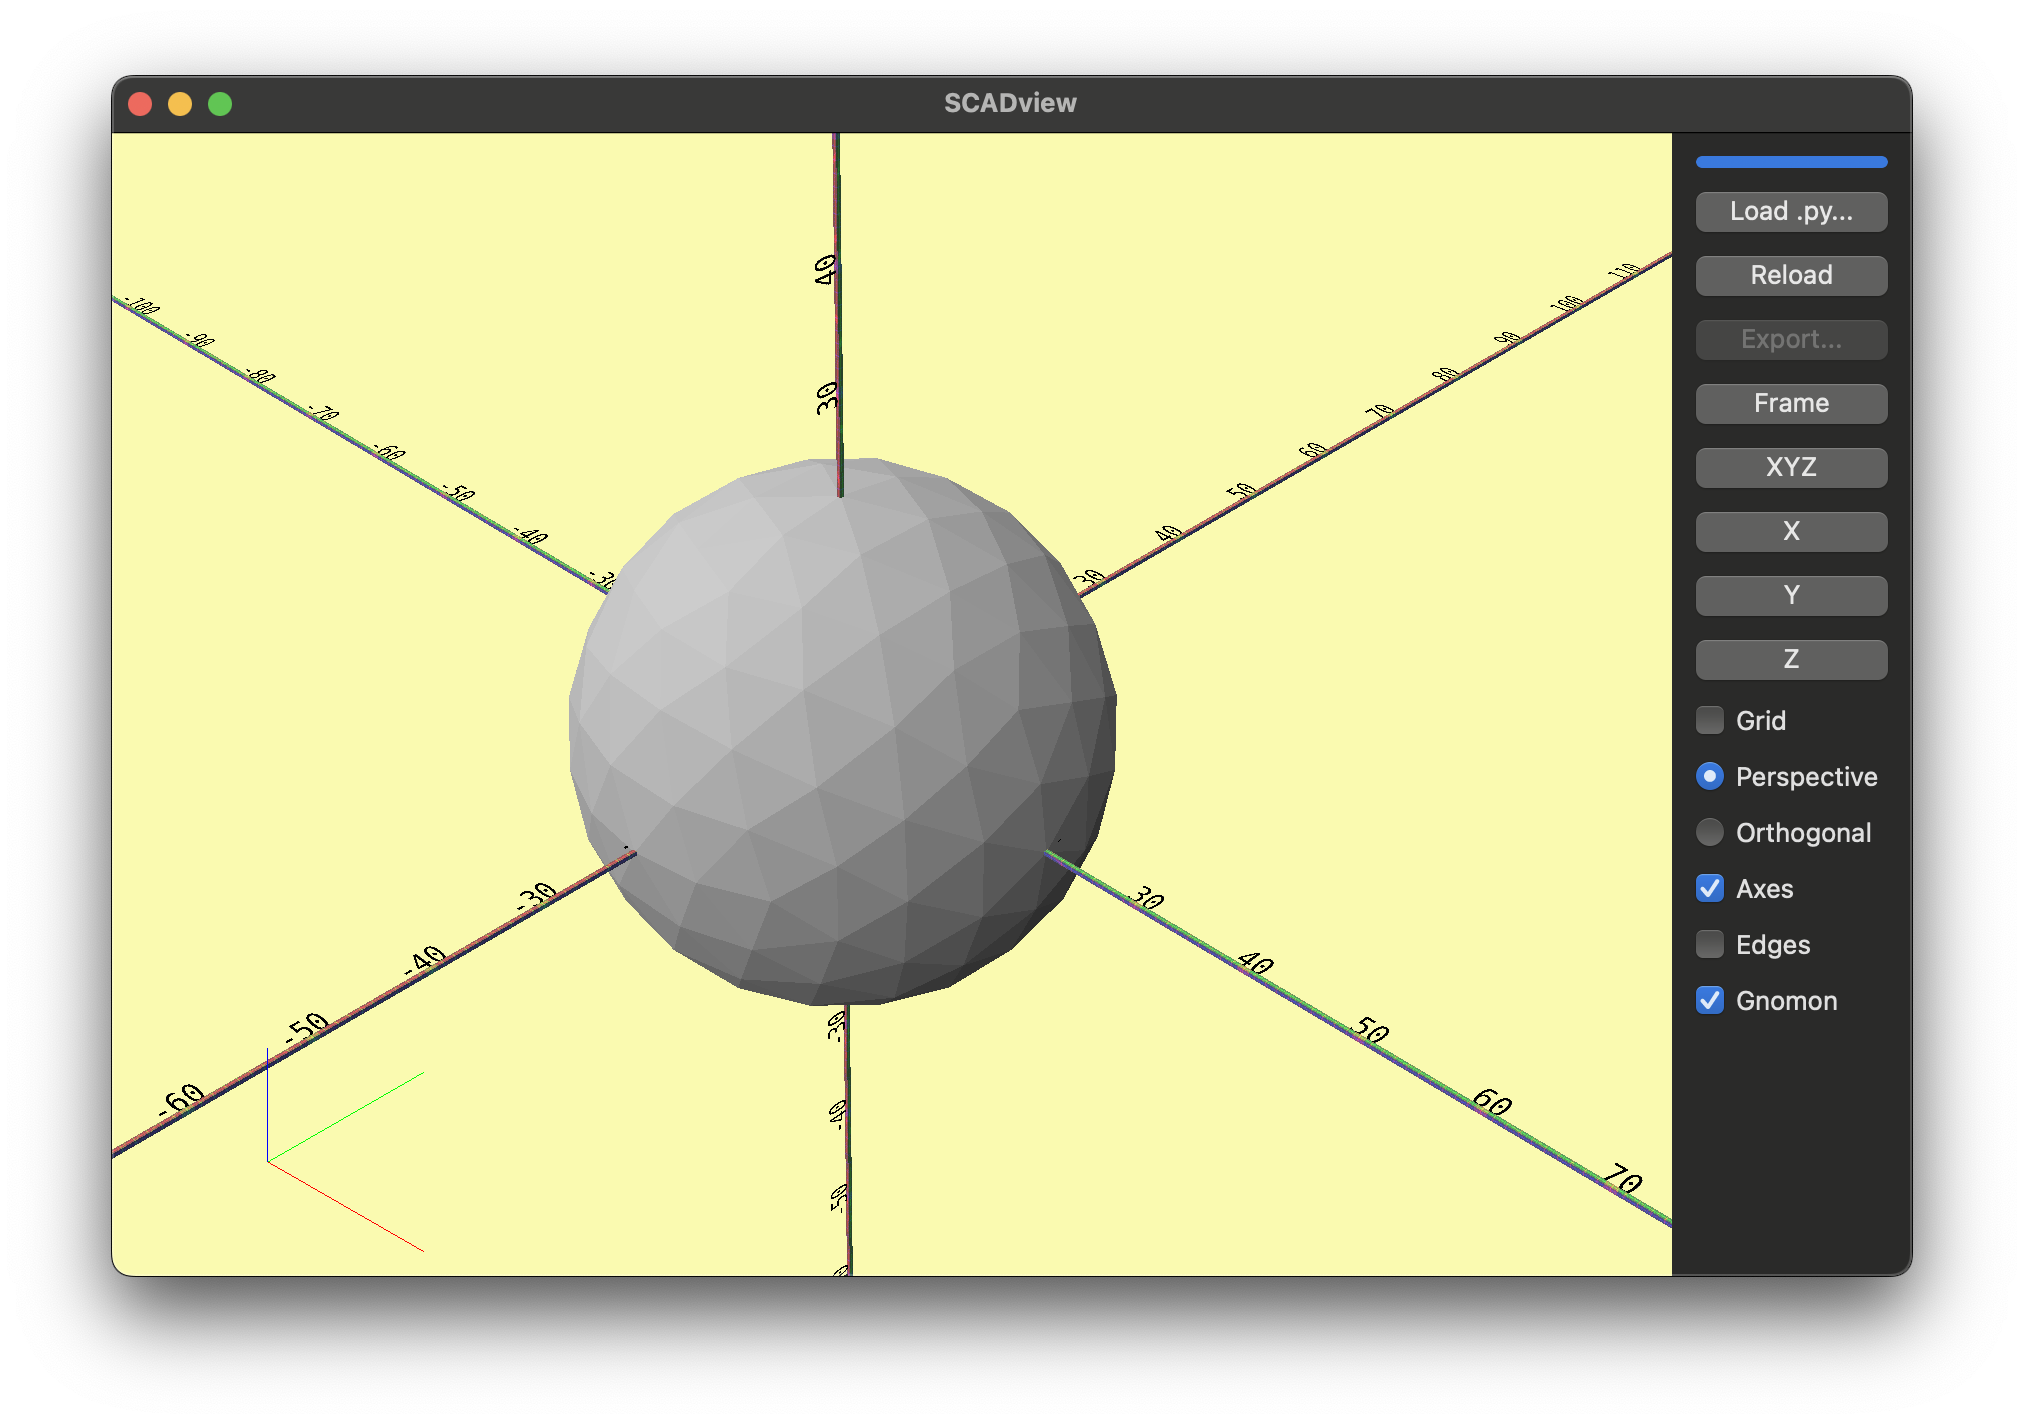
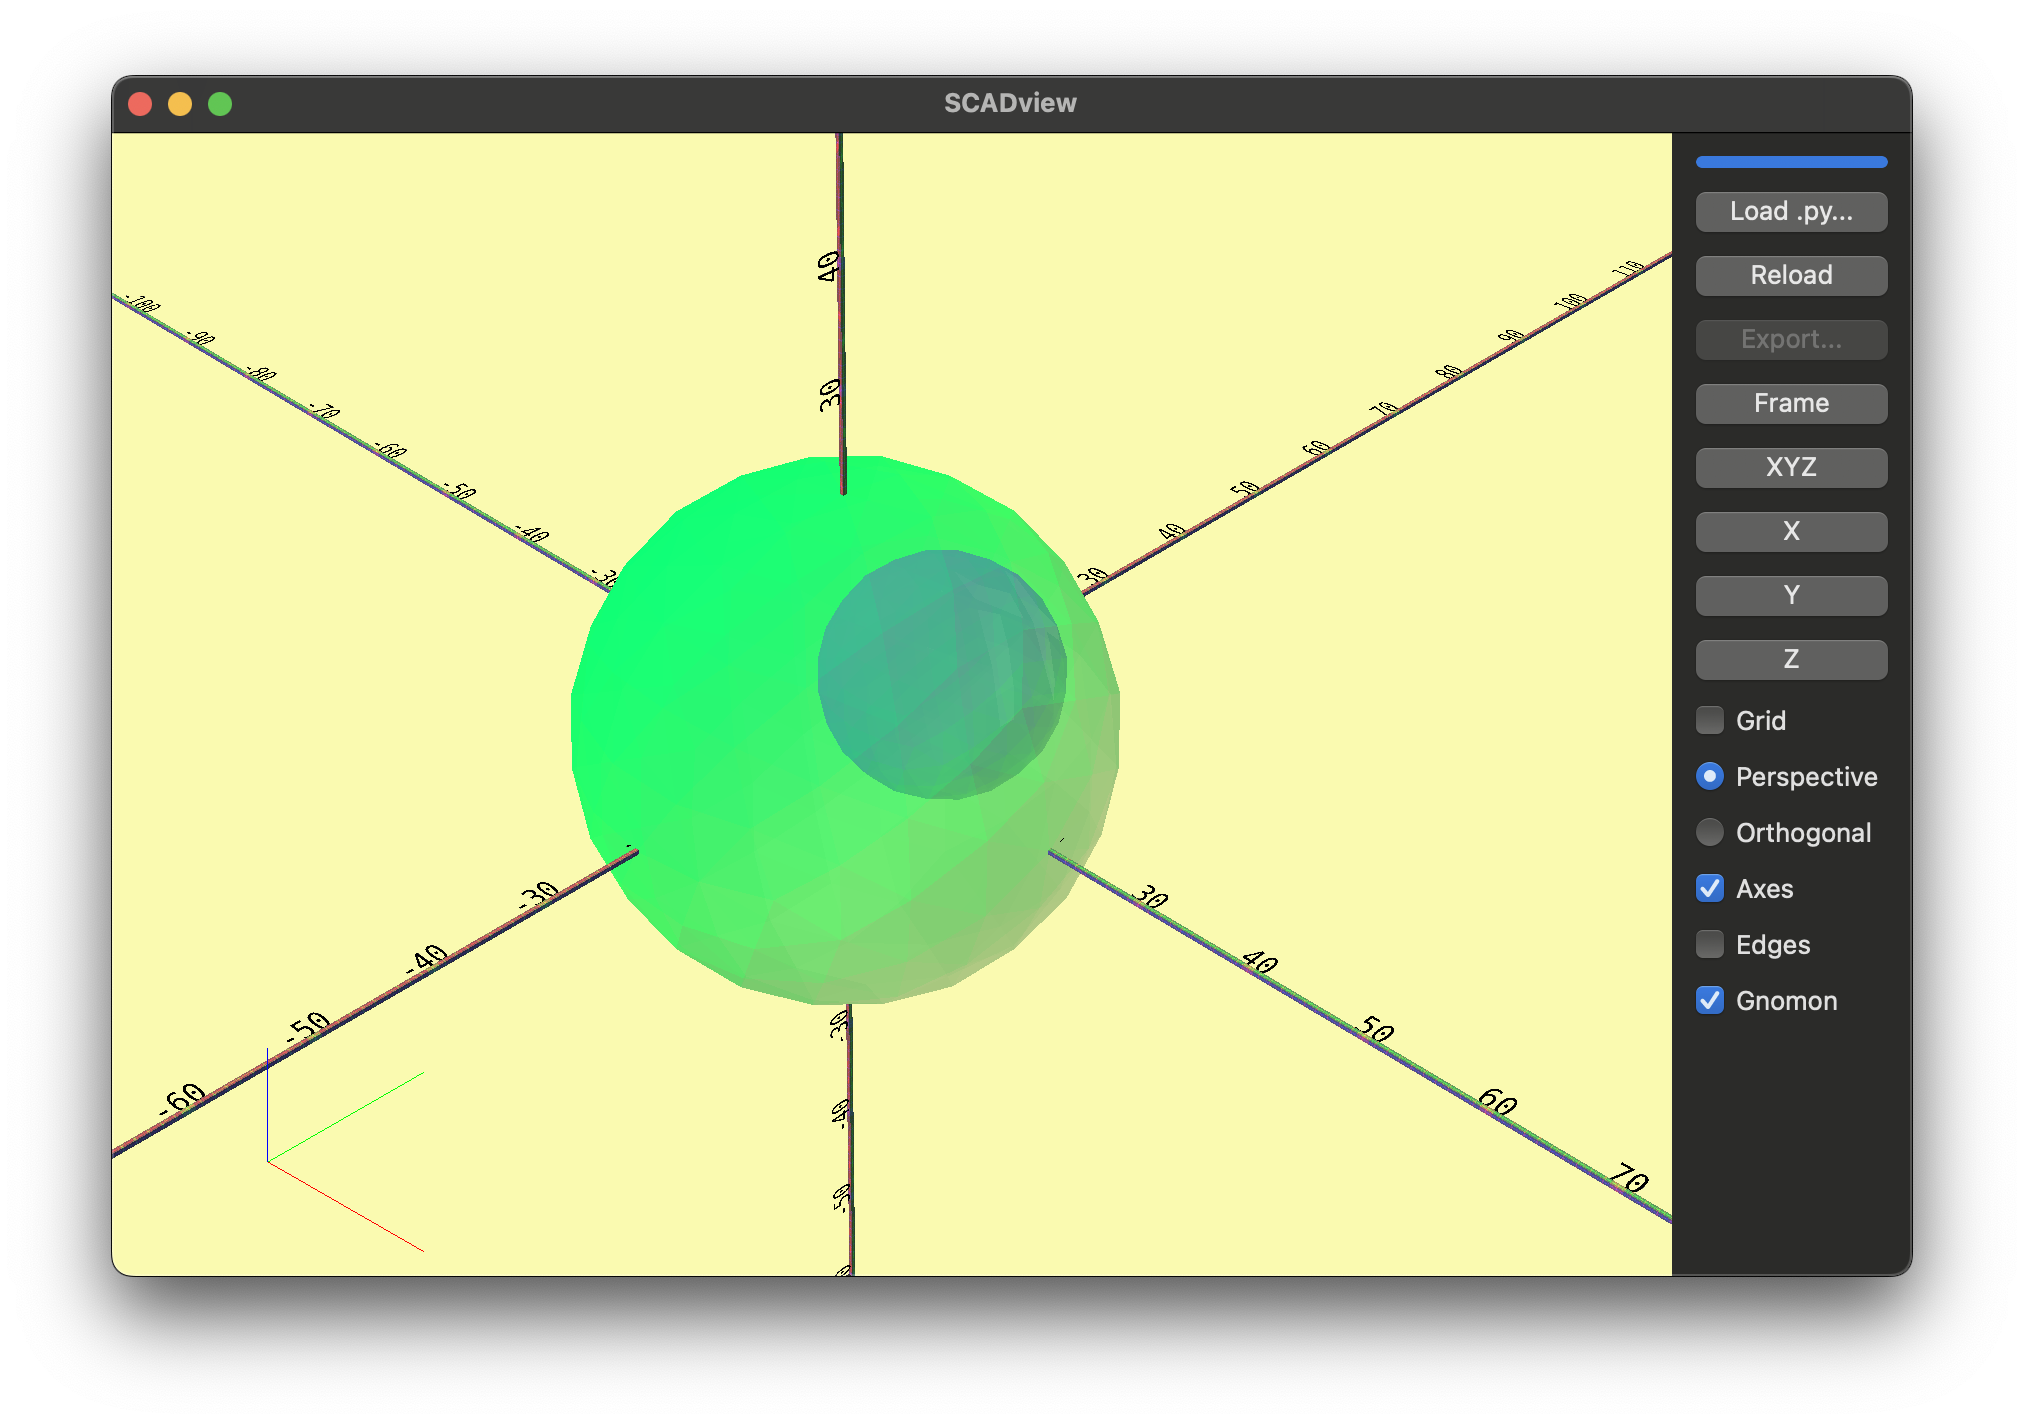
docs: Update tutorial for change in debug mode feature

diff --git a/tutorial/golf_ball_step_08.py b/tutorial/golf_ball_step_08.py
@@ -1,8 +1,6 @@
 import numpy as np
 from trimesh.creation import icosphere
 
-from scadview import set_mesh_color
-
 GOLF_BALL_RADIUS = 42.67 / 2
 DIMPLE_RADIUS_FRACTION = 1 / 4
 SUBDIVISIONS = 2
@@ -13,7 +11,6 @@ def create_mesh():
     print(
         f"Created ball with {len(ball.vertices)} vertices and {len(ball.faces)} faces"
     )
-    set_mesh_color(ball, [1, 0, 0], alpha=0.5)
     dimples = []
     for face in ball.faces:
         verts = ball.vertices[face]
@@ -26,6 +23,5 @@ def create_mesh():
         dimple_mesh.apply_translation(face_center)
         ball = ball.difference(dimple_mesh)
         dimples.append(dimple_mesh)
-    set_mesh_color(ball, [1, 0, 0], alpha=0.1)
     return [ball] + dimples
     # return ball

diff --git a/tutorial/golf_ball_step_05.py b/tutorial/golf_ball_step_05.py
@@ -1,7 +1,5 @@
 from trimesh.creation import icosphere
 
-from scadview import set_mesh_color
-
 GOLF_BALL_RADIUS = 42.67 / 2
 DIMPLE_RADIUS = 10
 SUBDIVISIONS = 2
@@ -14,8 +12,6 @@ def create_mesh():
     )
     dimple = icosphere(
         subdivisions=SUBDIVISIONS, radius=DIMPLE_RADIUS
-    ).apply_translation([0, GOLF_BALL_RADIUS, 0])
-    set_mesh_color(ball, [1, 0, 0], alpha=0.5)
-    set_mesh_color(dimple, [0, 0, 1], alpha=0.5)
+    ).apply_translation([0, GOLF_BALL_RADIUS / 2, 0])
     # return ball.difference(dimple)
     return [ball, dimple]

diff --git a/tutorial/golf_ball_step_06.py b/tutorial/golf_ball_step_06.py
@@ -1,10 +1,8 @@
 import numpy as np
 from trimesh.creation import icosphere
 
-from scadview import set_mesh_color
-
 GOLF_BALL_RADIUS = 42.67 / 2
-DIMPLE_RADIUS_FRACTION = 1 / 4
+DIMPLE_RADIUS_FRACTION = 1 / 6
 SUBDIVISIONS = 2
 
 
@@ -13,7 +11,6 @@ def create_mesh():
     print(
         f"Created ball with {len(ball.vertices)} vertices and {len(ball.faces)} faces"
     )
-    set_mesh_color(ball, [1, 0, 0], alpha=0.5)
     dimples = []
     for face in ball.faces:
         verts = ball.vertices[face]

diff --git a/tutorial/golf_ball_step_07.py b/tutorial/golf_ball_step_07.py
@@ -1,8 +1,6 @@
 import numpy as np
 from trimesh.creation import icosphere
 
-from scadview import set_mesh_color
-
 GOLF_BALL_RADIUS = 42.67 / 2
 DIMPLE_RADIUS_FRACTION = 1 / 4
 SUBDIVISIONS = 2
@@ -13,7 +11,6 @@ def create_mesh():
     print(
         f"Created ball with {len(ball.vertices)} vertices and {len(ball.faces)} faces"
     )
-    set_mesh_color(ball, [1, 0, 0], alpha=0.5)
     dimples = []
     for face in ball.faces:
         verts = ball.vertices[face]

diff --git a/tutorial/golf_ball_step_10.py b/tutorial/golf_ball_step_10.py
@@ -1,7 +1,5 @@
 import numpy as np
-from scadview import set_mesh_color
 from trimesh.creation import icosphere
-
 
 GOLF_BALL_RADIUS = 42.67 / 2
 DIMPLE_RADIUS_FRACTION = 0.7
@@ -14,7 +12,6 @@ def create_mesh():
     print(
         f"Created ball with {len(ball.vertices)} vertices and {len(ball.faces)} faces"
     )
-    set_mesh_color(ball, [1, 0, 0], alpha=0.5)
     dimples = []
     for face in ball.faces:
         verts = ball.vertices[face]

diff --git a/tutorial/golf_ball_step_09.py b/tutorial/golf_ball_step_09.py
@@ -1,5 +1,4 @@
 import numpy as np
-from scadview import set_mesh_color
 from trimesh.creation import icosphere
 
 
@@ -13,7 +12,6 @@ def create_mesh():
     print(
         f"Created ball with {len(ball.vertices)} vertices and {len(ball.faces)} faces"
     )
-    set_mesh_color(ball, [1, 0, 0], alpha=0.5)
     dimples = []
     for face in ball.faces:
         verts = ball.vertices[face]

diff --git a/docs/tutorial.md b/docs/tutorial.md
@@ -175,7 +175,10 @@ so its radius is about 40.
 
 Let's see what you can do with the {{ project_name }} UI.
 We've already used a couple of buttons, 
-but lets read about the [user interface](./user_interface.md)
+but now please go to the [user interface](./user_interface.md)
+and learn about all of the buttons.
+Once you are done exploring,
+return here to continue the tutorial.
 
 ## Step 4: Add Dimples
 
@@ -246,18 +249,17 @@ but let's suppose you don't know what is wrong.
 
 ## Step 5 Debug
 
-We are going to try out some of {{ project_name }}'s unique debugging tools:
+We are going to try out {{ project_name }}'s unique debugging tool:
 
-- Enabling viewing multiple meshes at the same time
-- Setting colors and transparency of the meshes.
+- "Debug mode" enabling viewing multiple meshes at the same time, with transparency and colors.
 
-So let's try them out.
+So let's try it out.
 
-### Debug Mode - Return an Array of Meshes
+### Debug Mode - Return a List of Meshes
 
 To enable seeing multiple meshes, 
 for example, before we combine them,
-we return them in an array.
+we return them in a list.
 
 So let's:
 
@@ -268,71 +270,38 @@ So let's:
     # return ball.difference(dimple)
     return [ball, dimple]
 ```
-- Press "Reload" and we see two balls - 
-the smaller one a distance away from the main ball.
+- Press "Reload" and we see two balls - in glorious, semi-transparent colors.
+    - By returning a list of meshes, {{ project_name }} goes into "debug mode".
+    - Debug mode makes each mesh semi-transparent, so you can see meshes inside of other meshes.
+    - It also colors the meshes, so you can distinguish them more easily.
+
+Why didn't we see the smaller ball (the dimple) above?
+What happens is if we subtract ("difference") the smaller ball from the larger ball 
+and they don't intersect, 
+all that happens is that the dimple disappears,
+and the large ball remains unchanged.
+
 ![Golf Ball Debug](images/golf_ball_step_05_debug.png)
-- Of course! - we moved it the full diameter instead of the radius.
+
+- Of course! - we moved the dimple the full diameter instead of the radius
 - We need to halve the diameter - that is 11.335.
 ```python
     dimple = icosphere(subdivisions=2, radius=10).apply_translation([0, 11.335, 0])
 ```
 - Press "Reload".
-- Now the large dimple has completely disappeared! What!?!
+- Now we can see that the large dimple is completely inside the golf ball! What!?!
+    - Through the magic of debug mode, we can see through the golf ball and see the dimple inside.
 ![Golf Ball Debug Again](images/golf_ball_step_05_debug_b.png)
 
-### Using Color and Transparency for Debugging
-
-Again, you probably saw how I messed up, but let's debug anyway.
-Once a mesh is complete, 
-and you don't intend to perform any more operations on it,
-you can assign it a color and an opaqueness (alpha).
-
-- A color is defined by a list or tuple of 3 floats from 0.0 - 1.0,
-representing the red, green and blue values.
-- `alpha` is a value betweeh 0.0 and 1.0 as well.
-    - 0.0 is completely transparent
-    - 1.0 is completely opaque
-
-So let's:
-
--  Make the `ball` red (`color=[1, 0, 0]`)
-and semi-transparent (`alpha=0.5`)
-- Make the `dimple` blue (`color=[0, 0, 1]`)
-with the same alpha.
-- To set the color, we import `set_mesh_color` from {{ package_name }}
-```python
-from {{ package_name }} import set_mesh_color
-```
-```python
-    set_mesh_color(ball, [1.0, 0, 0], alpha=0.5)
-    set_mesh_color(dimple, [0, 0, 1.0], alpha=0.5)
-```
-- Put this all together:
-```python
-from {{ package_name }} import set_mesh_color
-from trimesh.creation import icosphere
-
-
-def create_mesh():
-    ball = icosphere(subdivisions=2, radius=42.67 / 2)
-    print(
-        f"Created ball with {len(ball.vertices)} vertices and {len(ball.faces)} faces"
-    )
-    dimple = icosphere(subdivisions=2, radius=10).apply_translation([0, 11.335, 0])
-    set_mesh_color(ball, [1.0, 0, 0], alpha=0.5)
-    set_mesh_color(dimple, [0, 0, 1.0], alpha=0.5)
-    # return ball.difference(dimple)
-    return [ball, dimple]
-```
-
-Press "Reload". Now we can see that our dimple is inside the main ball.
+Again, you probably saw how I messed up.
 I shouldn't have done the math in my head!
-![Golf Ball Transparent](images/golf_ball_step_05_debug_c.png)
+I should have moved the dimple to the radius of the golf ball.
 
+All of these numbers are getting confusing.
 Let's clean up the script a bit by giving names to some of our values.
 This makes the script easier to read, 
 and easier to modify.
-We will add before `create_mesh` some "constants":
+We will add some "constants" before `create_mesh` :
 ```python
 ...
 GOLF_BALL_RADIUS = 42.67 / 2
@@ -344,7 +313,6 @@ def create_mesh():
 ```
 Replacing the values in the script, we get:
 ```python
-from {{ package_name }} import set_mesh_color
 from trimesh.creation import icosphere
 
 
@@ -361,8 +329,6 @@ def create_mesh():
     dimple = icosphere(
         subdivisions=SUBDIVISIONS, radius=DIMPLE_RADIUS
     ).apply_translation([0, GOLF_BALL_RADIUS, 0])
-    set_mesh_color(ball, [1, 0, 0], alpha=0.5)
-    set_mesh_color(dimple, [0, 0, 1], alpha=0.5)
     # return ball.difference(dimple)
     return [ball, dimple]
 ```
@@ -409,10 +375,9 @@ We use the numpy `norm` function:
 ```
 - Put this all together, plus:
     - Replace `DIMPLE_RADIUS` with `DIMPLE_RADIUS_FRACTION`
-    - Keep the dimples in an array
+    - Keep the dimples in a list
 ```python
 import numpy as np
-from {{ package_name }} import set_mesh_color
 from trimesh.creation import icosphere
 
 
@@ -426,7 +391,6 @@ def create_mesh():
     print(
         f"Created ball with {len(ball.vertices)} vertices and {len(ball.faces)} faces"
     )
-    set_mesh_color(ball, [1, 0, 0], alpha=0.5)
     dimples = []
     for face in ball.faces:
         verts = ball.vertices[face]
@@ -457,14 +421,14 @@ DIMPLE_RADIUS_FRACTION = 1 / 4
 Now all that remains is:
 
 - Carve out each dimple (`difference`)
-- Return a final mesh (not an array) so that "Export" is available.
+- Return a final mesh (not a list) so that "Export" is available.
     - You may have noticed that in "debug" mode, "Export" is unavailable.
 
 Let's carve out each dimple.  
 
 - We add a line to remove each dimple after we create it.
 - And we just want to return the final ball, 
-not an array of meshes.
+not a list of meshes.
 ```python
         dimple_mesh.apply_translation(face_center)
         ball = ball.difference(dimple_mesh) # <- Added this line
@@ -495,30 +459,28 @@ You might have some questions.
     Each dimple has 162 vertices, 320 faces and 480 edges, 
     as does the original ball.  
     That is a lot of intersections to calculate!
-1. Q: Why is the ball gray?  We are still calling `set_mesh_color(ball, [1, 0, 0], alpha=0.5)`
-    - A: Color does not survive a boolean operation, so it reverts to gray.
-    You can set the color after all of the boolean operations are complete.
-    Although color is used for debugging, 
-    a single color + alpha can be assigned to the final mesh
-    even when not debugging.
+1. Q: Why is the ball gray? 
+    - A: Since we are not returning a list anymore, 
+    we are no longer in debug mode, 
+    which has been setting the colors.
+        - If you want, you can set the color of a final mesh - see [set_mesh_color](../api/#scadview.set_mesh_color)
 1. Q: Where are the dimples?
     - A: If you look closely, there are 1 or 2.
 ![Golf Ball One Dimple](images/golf_ball_step_07.png)
+
 1.  Q: Where are the rest of them?
     - A: Let's find out.
 
 ## Step 8: Debug (Again)
 
 To see what is going on, 
-let's return the ball and dimples as an array again,
-making the ball transparent red.
+let's return the ball and dimples as a list again.
 This is a little different than before,
 because the ball we are returning this time
 should have had dimples removed.
 
 ```python
         dimples.append(dimple_mesh)
-    set_mesh_color(ball, [1, 0, 0], alpha=0.1) # <- Add 
     return [ball] + dimples # <- Uncommented
     # return ball # <- Commented 
 ```
@@ -529,21 +491,15 @@ Whoa!
 That looks cool -
 like a small solar system in the ball.
 ![Golf Ball Solar System](images/golf_ball_step_08.png)
+
 It is worth noting 
-that in addition to setting the ball to transparent red,
-we could have just written:
-```python
-    return ball
-```
-The transparency would have shown us voids in the ball,
-without returning an array for "debug" mode.
-We could have also written:
+that we could have also written:
 ```python
     return [ball]
 ```
-We'd see the same result, 
-but since `ball` is in an array,
-we'd be in debug mode.
+We'd see the voids inside the ball, 
+since `ball` is in a list,
+and we'd be in debug mode.
 
 Feel free to try these out to see the difference.
 
@@ -571,7 +527,6 @@ we will:
         dimples.append(dimple_mesh)
     for dimple_mesh in dimples: # <- Added
         ball = ball.difference(dimple_mesh) # <- Added 
-    # set_mesh_color(ball, [1, 0, 0], alpha=0.1) # <- Commented
     # return [ball] + dimples # <- Commented
     return ball # <- Uncommented
 ```
@@ -584,7 +539,6 @@ Let's removed the commented code,
 and so we have our final code:
 ```python
 import numpy as np
-from {{package_name}} import set_mesh_color
 from trimesh.creation import icosphere
 
 
@@ -598,7 +552,6 @@ def create_mesh():
     print(
         f"Created ball with {len(ball.vertices)} vertices and {len(ball.faces)} faces"
     )
-    set_mesh_color(ball, [1, 0, 0], alpha=0.5)
     dimples = []
     for face in ball.faces:
         verts = ball.vertices[face]
@@ -631,7 +584,7 @@ and create the necessary gcode file for printing.
 
 ### Creating Multiple Meshes for Export
 
-The `create_mesh()` allows you to return multiple meshes in an array,
+The `create_mesh()` allows you to return multiple meshes in a list,
 but this is "debug" mode, 
 and so you cannot export them.
 
@@ -683,7 +636,7 @@ Let's try this with the golf ball:
 You will see the ball, 
 and then the dimples progressively appear.
 
-You can also yield arrays for debug mode.
+You can also yield lists for debug mode.
 
 ### Animation
 
